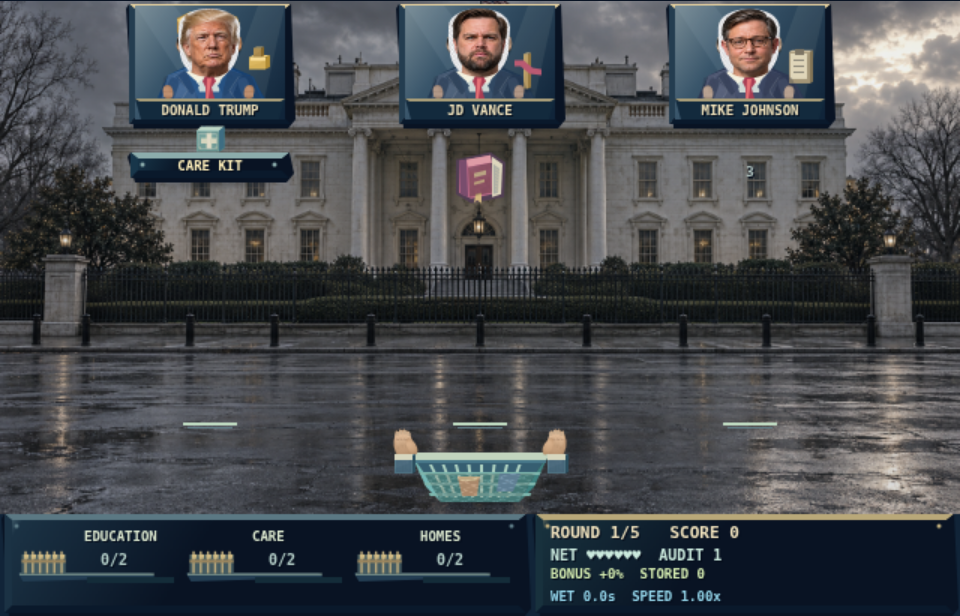
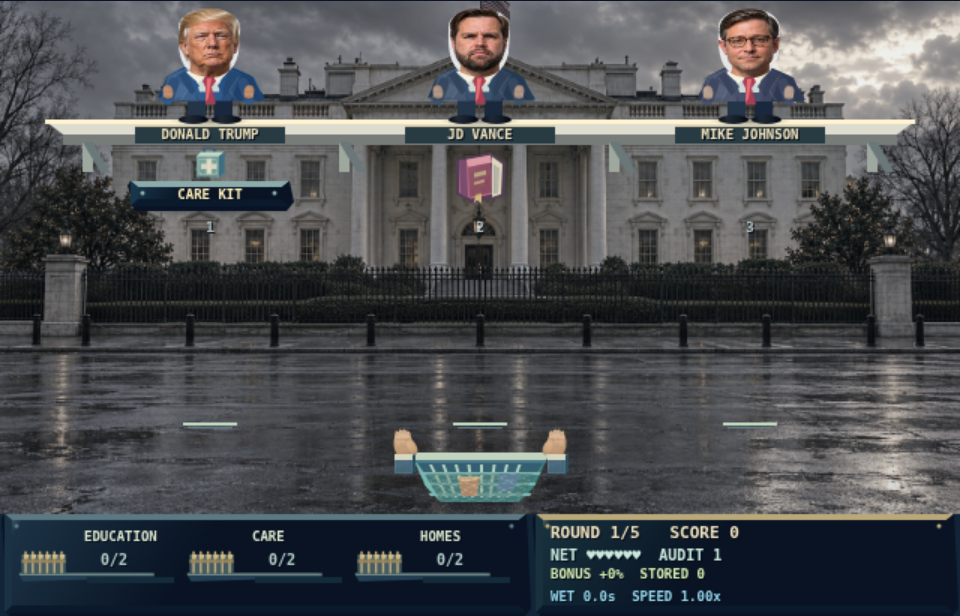
Complete multi-game gameplay follow-up and verification

Changed region(s): [[0.0312, 0.0, 0.9688, 0.3701]]

diff --git a/PROGRESS.md b/PROGRESS.md
@@ -106,14 +106,17 @@ Status: complete. Production build, 158 unit tests and 15 targeted desktop/mobil
 
 ## 2026-09-09: camera, flight and net follow-up
 
-Status: implementation in progress, three concurrent game specialists plus root integration. After finishing Rio, its specialist moved to the Wall boss encounter.
+Status: complete. Four implementation teams completed the agreed Rio, Flappy, Tycoon and Wall follow-up, with cross-review and root integration.
 
 | Game | Agreed work | Status |
 | --- | --- | --- |
-| Rio Rescue | True top-down camera, readable footprints/current direction; preserve terrain, convoy and replay | Implementing |
-| Flappy Files | Held-letter pickups; selectable 5% bounce upgrades; unlocked temporary Fly/Helicopter modes and distinct eagle poses; face overlap review | Implementing |
-| Trickle-down Tycoon | Automatic net catches, majority-overlap promise returns, adjacent action keys, clear upgrades and rooftop figures | Implementing |
-| Against the Wall | GB Smallman sound-investigation/call/reinforcement sequence | Implementing after Rio |
+| Rio Rescue | True top-down camera, readable footprints/current direction; preserve terrain, convoy and replay | Complete |
+| Flappy Files | Held-letter pickups; selectable 5% bounce upgrades; unlocked temporary Fly/Helicopter modes and distinct eagle poses; face overlap review | Complete |
+| Trickle-down Tycoon | Automatic net catches, majority-overlap promise returns, adjacent action keys, clear upgrades and rooftop figures | Complete |
+| Against the Wall | GB Smallman sound-investigation/call/reinforcement sequence | Complete |
 | Supply the People | Fictional operators, suppliers and gold removal | Completed in 0f61321 |
 
 Acceptance: preserve prior model rules and saved controls; pause freezes new state; descriptions match actual keys; desktop/mobile lifecycle and pointer input remain functional; capture real gameplay previews and review faces at play size. User confirmed Flappy unlock at 80% of baseline remaining (about five upgrades along one path). New visual work is not a claim to meet the previously exhausted PS3-realism target.
+
+
+Final follow-up verification: production build passed; 178 unit tests passed in 20 files; 101 Playwright tests passed and 1 unsupported mobile fullscreen test skipped. All five production routes start/pause without page errors or external runtime requests. Preview gallery refreshed from the built localhost server.

diff --git a/.internal_docs/reviews/followup-integration.md b/.internal_docs/reviews/followup-integration.md
@@ -1,6 +1,6 @@
 # Camera, flight, net and boss integration — 2026-09-09
 
-Implementation complete; final browser integration in progress. Three specialist slots handled Rio, Flappy and Tycoon; the finished Rio slot then handled Against the Wall. The Flappy and Tycoon specialists cross-reviewed each other's gameplay after implementation.
+Implementation complete; final browser integration complete. Three specialist slots handled Rio, Flappy and Tycoon; the finished Rio slot then handled Against the Wall. The Flappy and Tycoon specialists cross-reviewed each other's gameplay after implementation.
 
 ## Review corrections
 
@@ -18,6 +18,9 @@ Source hot reload interrupted early parallel browser runs; these are not counted
 - Full unit suite: 178 tests in 20 files pass.
 - Prettier checks pass for the changed source/test files.
 - All five built production routes start and pause, with no page errors, no external runtime requests and no development tuning link.
-- Full 102-case Playwright suite running; final result pending.
+- Full Playwright suite: 101 passed, 1 unsupported mobile fullscreen case skipped in 3.6 minutes. The formerly flaky desktop drowning check passes in isolation and in the final run.
 
 Visual scope: Rio received one camera implementation/review; Flappy two visual iterations plus the independent touch correction; Tycoon two visual reviews plus the independent net-geometry correction; Wall two scene reviews (initial canopy, then existing-building entrance). All satisfy this round’s bounded feature criteria, with the stylized-art limitations retained. No new PS3-realism claim.
+
+
+Updated production previews for all five games are in `public/assets/previews/`; each was captured from the built localhost server after the feature round.
